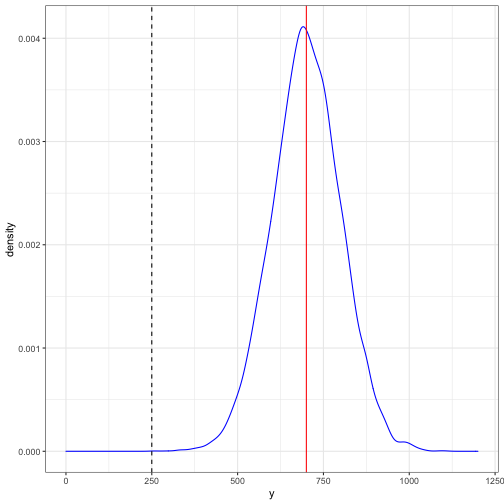
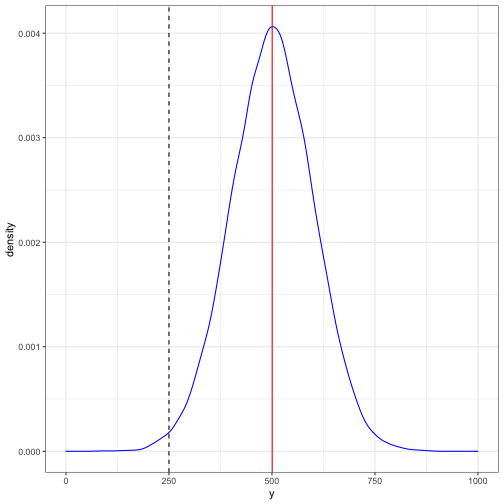
Update

diff --git a/slides/class_1/class_1 2.html b/slides/class_1/class_1 2.html
@@ -119,60 +119,35 @@ Supongamos que `\(\mathbf{y}: \{y_{1}, y_{2}, y_{3}, \dots, y_{n}\}\)` represent
 .pull-left[
 
 ```
-##       [,1]
-##  [1,]  493
-##  [2,]  497
-##  [3,]  521
-##  [4,]  489
-##  [5,]  483
-##  [6,]  482
-##  [7,]  498
-##  [8,]  503
-##  [9,]  510
-## [10,]  510
+##           [,1]
+##  [1,] 482.7690
+##  [2,] 492.0513
+##  [3,] 503.2615
+##  [4,] 492.9902
+##  [5,] 492.6557
+##  [6,] 504.6116
+##  [7,] 491.4836
+##  [8,] 503.4962
+##  [9,] 489.9036
+## [10,] 497.9963
 ```
-
 ]
 .pull-right[
-&lt;img src="class_1_files/figure-html/unnamed-chunk-3-1.png" width="250px" /&gt;
+![](class_1_files/figure-html/unnamed-chunk-3-1.png)&lt;!-- --&gt;
 
 ```
-## Promedio     Gini      Min      Max 
-##  500.000    0.011  464.000  540.000
+## [1] 500
+```
+
+```
+## [1] 0.01141215
+```
+
+```
+## [1] 464 538
 ```
 ]
 
----
-## Desigualdad, una definición general 
-
-
-Supongamos que `\(\mathbf{y}: \{y_{1}, y_{2}, y_{3}, \dots, y_{n}\}\)` representa los ingresos de `\(n\)` individuos. Consideremos diferentes escenarios.
-
-&lt;br&gt;
-
-.bold[Desigualdad de resultados]
-
-`\(y_{1} \approx y_{2}  \approx y_{3} \approx \dots \approx y_{n}\)`
-
-
-```
-##  [1] 475 433 479 535 530 539 443 394 608 427 537 436 505 378 652 444 436 560 580 510 630 575 557 473 528 786 411 592 512 315
-```
-
-&lt;img src="class_1_files/figure-html/unnamed-chunk-4-1.png" width="250px" /&gt;
-
-```
-## [1] 501
-```
-
-```
-## [1] 0.11
-```
-
-```
-## [1]  86 875
-```
-
 
 ---
 ## Desigualdad, una definición general 
@@ -188,50 +163,88 @@ Supongamos que `\(\mathbf{y}: \{y_{1}, y_{2}, y_{3}, \dots, y_{n}\}\)` represent
 
 
 ```
-##  [1] 722 752 757 690 690 661 883 847 538 794 707 823 775 604 630 704 667 539 613 770 578 899 814 672 891 778 550 776 688 779
+##  [1] 533.3201 487.1405 478.7132 551.1930 617.7917 516.7696 409.4085 584.0684 537.9573 354.7941 726.6402 595.9013 420.5837 588.6152 434.0491
+## [16] 466.3586 559.9281 454.3290 469.4904 252.0540 587.9011 548.9836 588.1654 556.6470 566.1082 512.5231 481.7278 612.0874 211.2004 350.7300
 ```
 
-&lt;img src="class_1_files/figure-html/unnamed-chunk-5-1.png" width="250px" /&gt;
+![](class_1_files/figure-html/unnamed-chunk-4-1.png)&lt;!-- --&gt;
 
 ```
-## [1] 703
-```
-
-```
-## [1] 0.079
+## [1] 499
 ```
 
 ```
-## [1]  355 1038
+## [1] 0.1145651
 ```
 
+```
+## [1] 124 883
+```
 
 
 ---
 ## Desigualdad, una definición general 
 
+
 Supongamos que `\(\mathbf{y}: \{y_{1}, y_{2}, y_{3}, \dots, y_{n}\}\)` representa los ingresos de `\(n\)` individuos. Consideremos diferentes escenarios.
 
 &lt;br&gt;
 
-.bold[Desigualdad de resultados] 
+.bold[Desigualdad de resultados]
 
 `\(y_{1} \approx y_{2}  \approx y_{3} \approx \dots \approx y_{n}\)`
 
 
 ```
-##  [1]  28596 -11678   9884    -76   6104  26630  14738    903  10944  22770     69  -5329  12719   3202   5053  25167   9572  12111   9350
-## [20]   3198   7068 -14909  -7246    562  11935  11783  -3689  -4548 -10179   3012
+##  [1] 554.5650 777.5196 501.2149 593.5643 810.8095 668.3620 601.2335 575.7873 735.8438 738.4566 770.6571 622.1879 700.0114 534.8053 733.2463
+## [16] 536.0317 680.6019 658.4469 514.6484 793.9511 732.2699 823.3923 670.6221 511.1913 625.2219 670.5295 775.6701 784.7567 489.8349 749.2978
 ```
 
-&lt;img src="class_1_files/figure-html/unnamed-chunk-6-1.png" width="250px" /&gt;
+![](class_1_files/figure-html/unnamed-chunk-5-1.png)&lt;!-- --&gt;
 
 ```
-## [1] 9964
+## [1] 700
 ```
 
 ```
-## [1] 0.57
+## [1] 0.08056118
+```
+
+```
+## [1]  289 1039
+```
+
+---
+## Desigualdad, una definición general 
+
+
+Supongamos que `\(\mathbf{y}: \{y_{1}, y_{2}, y_{3}, \dots, y_{n}\}\)` representa los ingresos de `\(n\)` individuos. Consideremos diferentes escenarios.
+
+&lt;br&gt;
+
+.bold[Desigualdad de resultados]
+
+`\(y_{1} \approx y_{2}  \approx y_{3} \approx \dots \approx y_{n}\)`
+
+`\(y_{i} = \mu + \epsilon_{i}\)` `\(\epsilon_{i} \sim \text{Normal}(0,\sigma)\)`
+
+```
+##  [1] 696.6978 708.3274 655.8653 678.0187 644.7687 727.2858 619.9894 650.3772 741.7814 710.5966 693.2942 764.7311 559.0253 658.9102 746.4995
+## [16] 693.6787 676.6872 644.8654 678.1618 662.5664 713.4062 705.6472 776.3052 749.3705 800.5903 695.0248 738.9921 732.3385 677.2491 681.6439
+```
+
+![](class_1_files/figure-html/unnamed-chunk-6-1.png)&lt;!-- --&gt;
+
+```
+## [1] 700
+```
+
+```
+## [1] 0.04060727
+```
+
+```
+## [1] 530 873
 ```
 
 
